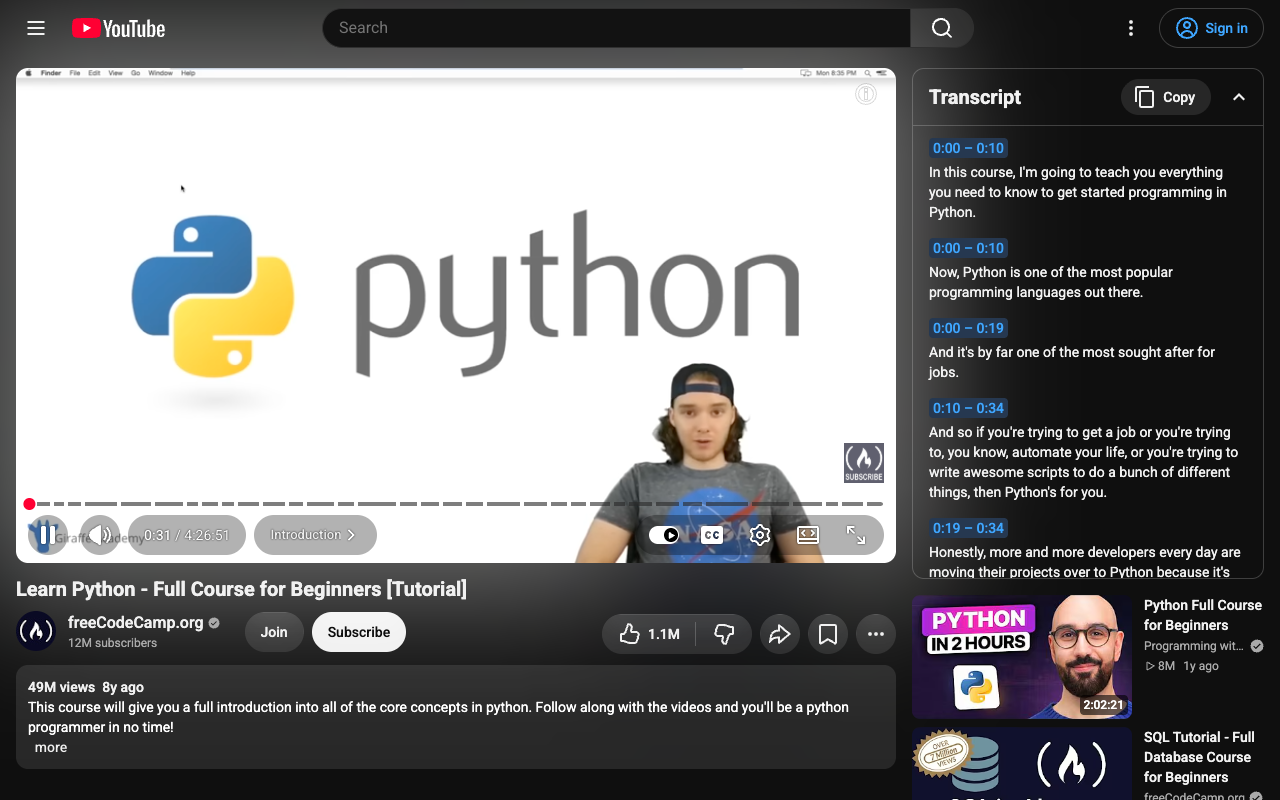
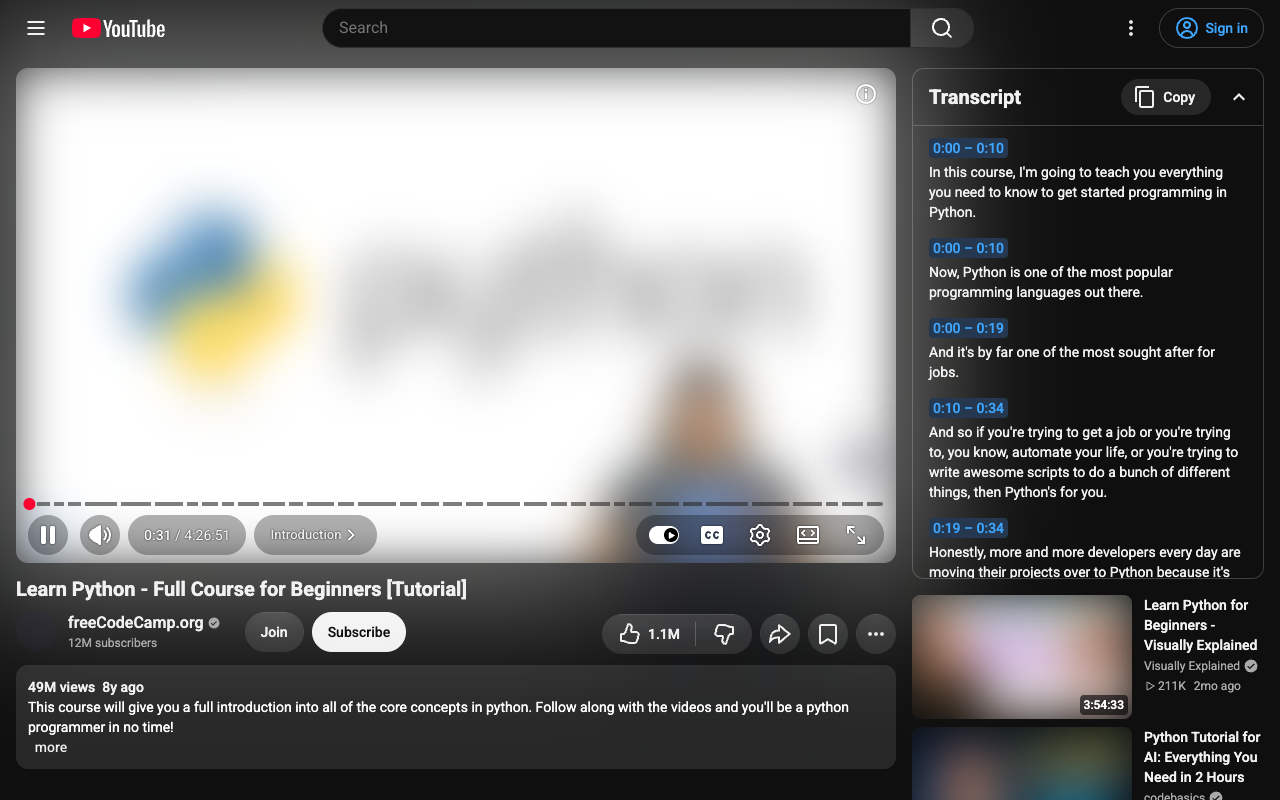
docs: Chrome Web Store compliance pass
Checked against the current CWS program policies, User Data FAQ, Privacy
practices docs, image guidelines and review-process docs.

- PRIVACY.md: per-data table (transcript text, video ID, preferences),
  Limited Use affirmative statement, effective date, contact.
- Listing: "How it works" discloses that YouTube's transcript panel is
  opened in the background (Misleading behaviour 3 / Red Nickel).
- Store screenshots blur the video frame, thumbnails, avatars and channel
  watermark (no third-party content in store assets).
- docs/store/README.md: tab-by-tab dashboard values, data-use reasoning
  with FAQ quotes, review-risk table with violation IDs, open items.

Refs #29

Changed region(s): [[0.0, 0.0625, 0.7188, 0.7188], [0.6875, 0.7188, 1.0, 1.0], [0.0, 0.75, 0.0625, 0.8125]]

diff --git a/docs/store/README.md b/docs/store/README.md
@@ -1,75 +1,118 @@
 # Chrome Web Store submission
 
-This folder prepares the first manual submission of YTTS ([#21](https://github.com/maphel/YTTS/issues/21)).
+This folder prepares the first manual submission of YTTS ([#21](https://github.com/maphel/YTTS/issues/21)),
+checked against the Chrome Web Store program policies, User Data FAQ, Privacy practices docs,
+image guidelines and review-process docs on 9 November 2026 ([#29](https://github.com/maphel/YTTS/issues/29)).
 It does not publish an item or automate uploads. Keep the listing, the privacy policy and the
-dashboard declarations aligned with the code.
+dashboard declarations aligned with the code: contradictions between them are a removal reason
+("If the information listed in your privacy fields contradicts…", Listing requirements 3).
 
-## Files to upload or copy
+## Dashboard, tab by tab
 
-| Dashboard field | Source |
+### Package
+Upload `ytts-<version>.zip` from the [GitHub release](https://github.com/maphel/YTTS/releases)
+(built by `release.yml`; contains only the git-tracked files of `extension/`). Never upload the
+repository or the screenshots.
+
+### Store listing
+| Field | Value |
 | --- | --- |
-| Package | `dist/ytts-<version>.zip` from the GitHub release, or `npm run pack`; must include the single-column fix (#24) |
-| Name | YTTS |
-| Summary | [short-description.txt](short-description.txt), identical to the manifest's English `extDescription` |
-| Detailed description | [long-description.txt](long-description.txt) |
-| Single purpose | [single-purpose.txt](single-purpose.txt) |
-| Permission explanations and remote code | [permissions.md](permissions.md) |
-| Test instructions (500-character field) | [test-instructions.txt](test-instructions.txt) |
-| Additional reviewer context (optional; only if the form offers a notes field, not inside the 500-character test instructions) | [reviewer-notes.txt](reviewer-notes.txt) |
-| Store icon | [`extension/icons/icon128.png`](../../extension/icons/icon128.png), 128 × 128 |
-| Screenshots | [`screenshots/`](screenshots/), 1280 × 800 and 640 × 400, light and dark |
-| Privacy policy | https://github.com/maphel/YTTS/blob/main/PRIVACY.md (current wording after this PR is merged) |
-| Homepage | https://github.com/maphel/YTTS |
+| Description | [long-description.txt](long-description.txt) (plain text) |
+| Category | Tools (alternatives in the current list: Accessibility, Education) |
+| Language | English. The summary comes from the manifest (`__MSG_extDescription__`, 21 locales); localized descriptions per locale are optional and can be added later |
+| Store icon | `extension/icons/icon128.png` (see [Open items](#open-items)) |
+| Screenshots | `screenshots/ytts-wide-light.png`, `screenshots/ytts-wide-dark.png`, `screenshots/ytts-compact-light.png` (1280 × 800 / 640 × 400, full bleed, square corners). At least one is required, up to five allowed |
+| Promo tiles | Optional (440 × 280 small, 1400 × 560 marquee). Without a small tile the item ranks after items that have one; not needed for review |
+| Official URL / Homepage | Homepage URL: https://github.com/maphel/YTTS (Official URL only lists Search-Console-verified sites; leave empty) |
 | Support URL | https://github.com/maphel/YTTS/issues |
+| Mature content | Off |
 
-Suggested listing language: English (the package ships 21 locales, i.e. 20 languages with
-Brazilian and European Portuguese; the dashboard can add
-localized listings later). Suggested category: Tools (verify the current choices; "Education" also
-fits). The summary is 72 characters (limit 132).
+The summary shown in the store is the manifest description: "Read YouTube transcripts next to
+the video and copy them with one click." (72 characters, limit 132). The screenshots are
+generated with `npm run screenshot -- --store`: the real extension on a public video, with the
+video frame, thumbnails, avatars and channel watermark blurred so the store assets show no
+third-party content beyond YouTube's page chrome.
 
-The screenshots are captured from the real extension on youtube.com with `npm run screenshot --
---store` (see `scripts/screenshot.mjs`). They show a public video page, including YouTube's
-interface and third-party thumbnails; replace them if the review objects.
+### Privacy (Privacy practices tab)
+| Field | Value |
+| --- | --- |
+| Single purpose | [single-purpose.txt](single-purpose.txt) |
+| Permission justification: `storage` | First section of [permissions.md](permissions.md) |
+| Host permission justification (content script on `https://www.youtube.com/*`) | Second section of [permissions.md](permissions.md) |
+| Remote code | "No, I am not using remote code" |
+| Data usage: collected categories | **Website content** only (see below) |
+| Data usage: certifications | Tick all three after reading them; they match [PRIVACY.md](../../PRIVACY.md) (no sale/transfer to third parties, no use unrelated to the single purpose, no creditworthiness/lending use) |
+| Privacy policy URL | https://github.com/maphel/YTTS/blob/main/PRIVACY.md (open it signed out first) |
 
-## Recommended data-use declarations
+Why these categories: "handle" includes local processing ("Extensions are required to disclose
+how they handle user data, even when data is processed or stored locally", User Data FAQ 3), and
+"Clipping or scraping content from a website that the user visits" is listed as handling (FAQ 2).
+YTTS reads the transcript text of the page → **Website content**. It reads only the current
+video's ID from the URL to notice video changes, keeps no list of pages, titles or visit times
+and stores nothing → not **Web history**. It observes no clicks, scrolling or keystrokes outside
+its own card → not **User activity**. Nothing else (personally identifiable, health, financial,
+authentication, personal communications, location) is accessed. The dashboard's own definitions
+are only visible signed in: compare them before ticking, and if a definition reads broader than
+described here, tick it and keep PRIVACY.md consistent. Over-disclosure is harmless, under-
+disclosure is a rejection reason (Purple Lithium / Purple Nickel).
 
-YTTS reads, locally, the transcript text that youtube.com renders and the current video ID from
-the URL. Nothing is transmitted to the developer or third parties, and nothing but three display
-preferences is stored.
+The Limited Use affirmative statement required on the homepage or one click away is in
+PRIVACY.md, linked from README.md.
 
-- **Website content:** recommended. The extension reads page content (the transcript) to provide
-  its single purpose, even though the processing stays local.
-- **Web history:** recommended not to select. Only the current tab's video ID is read to detect
-  navigation; YTTS keeps no list of visited pages and stores no video IDs.
-- **All other categories** (personally identifiable, health, financial, authentication, personal
-  communications, location, user activity): not accessed.
+### Test instructions
+[test-instructions.txt](test-instructions.txt) (417 characters, field limit 500). It names a
+short video whose transcript loads reliably.
 
-This mapping is the project's reading of the dashboard definitions (see the User data FAQ below on
-local processing). The maintainer confirms it against the current form before submitting.
-Review the three data-use certifications separately against the privacy policy.
+### Distribution
+Free, all regions. Visibility: Public (Unlisted goes through the same review). Leave "publish
+automatically after review" on, or defer it to check the approved item first (a staged item must
+be published within 30 days).
+
+## Review-risk check
+
+| Risk (policy / violation ID) | Status |
+| --- | --- |
+| Impersonation, trademark (Impersonation 1 and 5; Red Nickel/Red Silicon) | Listing and PRIVACY.md say "not affiliated with YouTube or Google". Name "YTTS" is descriptive. **Icon: open item.** |
+| Misleading or unexpected behaviour (Misleading 3; Red Nickel "actions not mentioned in the metadata") | The description's "How it works" discloses that YouTube's transcript panel is opened in the background and closed again |
+| Unauthorized download of copyrighted content (Prohibited products) | No media download; only the transcript YouTube itself shows, copied on a user click. Avoid "download", "save video" or "scrape" in any listing text |
+| Keyword spam (Listing 4; Yellow Argon) | No keyword lists; languages mentioned once as a count |
+| Missing or insufficient metadata (Yellow Zinc) | Description, icon, screenshots, category present |
+| Functionality not working (Yellow Magnesium) | Test instructions point to a video that works; see open items for older-panel videos |
+| Excessive permissions (Purple Potassium) | `storage` + one site; no `tabs`, `scripting`, `host_permissions` or broad patterns |
+| User data disclosure (Purple Lithium, Purple Nickel) | Privacy policy with Limited Use statement; Website content declared |
+| Remote code, obfuscation (Blue Argon, Red Titanium) | None; plain, unminified source |
+| Slow review | Single-site content script and no sensitive permissions keep it out of the broad-host-permission path; new developers and new items get closer review regardless ("a few days, up to a few weeks") |
+
+## Open items
+
+- **Store icon.** The art is 112 × 112 with 8 px padding; the guideline is 96 × 96 art with 16 px
+  transparent padding. Its red rounded square with a white play triangle resembles YouTube's
+  logo (#3), the most likely impersonation/trademark finding. Maintainer decision.
+- **Older transcript panel.** In automated Chromium, videos whose transcript YouTube loads via
+  `get_transcript` were refused (HTTP 400, YouTube's own panel too). Confirm in a normal browser
+  that YTTS loads such a video (e.g. `arj7oStGLkU`) before submitting.
 
 ## Manual checklist
 
-- [ ] Sign in to the Chrome Web Store Developer Dashboard with the intended publisher account and
-  complete registration, the developer agreement and the trader/non-trader declaration.
-- [ ] Download `ytts-<version>.zip` from the GitHub release (or run `npm run pack`), inspect it and
-  check the version.
-- [ ] Create a new item and upload that ZIP; never the repository or the screenshots.
-- [ ] Copy the listing texts, choose language and category, upload the icon and screenshots.
-- [ ] Enter the privacy policy URL, single purpose, permission explanations and test instructions;
-  open the policy URL without signing in first.
-- [ ] Select the data-use categories and certifications after reviewing them (see above).
-- [ ] Declare no remote code.
-- [ ] Choose visibility (Unlisted for a first test, or Public) and review all validation messages.
-- [ ] Submit for review. Record the item ID, store URL and review outcome in #21, and add the store
-  link to README.md afterwards.
+- [ ] Developer Dashboard: publisher registration, developer agreement, trader/non-trader
+  declaration, verified contact email.
+- [ ] Package tab: upload the release ZIP; check name and version 0.1.0.
+- [ ] Store listing tab as above; upload icon and screenshots.
+- [ ] Privacy tab as above; open the privacy URL signed out.
+- [ ] Test instructions and distribution as above.
+- [ ] Resolve all dashboard validation messages, then "Submit for review".
+- [ ] Record item ID, store URL and the outcome in #21; add the store link to README.md.
 
-Do not add upload credentials to the repository. Automated uploads are a later step, if ever.
+Do not add upload credentials to the repository.
 
 ## Policy references
 
-- [Prepare images](https://developer.chrome.com/docs/webstore/images): icon and screenshot sizes.
-- [Create a great listing](https://developer.chrome.com/docs/webstore/best-listing).
+- [Program policies](https://developer.chrome.com/docs/webstore/program-policies/policies)
+  (single page: impersonation, listing requirements, Limited Use, permissions, MV3).
+- [User data FAQ](https://developer.chrome.com/docs/webstore/program-policies/user-data-faq).
+- [Privacy practices tab](https://developer.chrome.com/docs/webstore/cws-dashboard-privacy).
+- [Images](https://developer.chrome.com/docs/webstore/images) ·
+  [Store listing tab](https://developer.chrome.com/docs/webstore/cws-dashboard-listing) ·
+  [Review process](https://developer.chrome.com/docs/webstore/review-process) ·
+  [Violation reference IDs](https://developer.chrome.com/docs/webstore/troubleshooting).
 - [Trader disclosure](https://developer.chrome.com/docs/webstore/program-policies/trader-disclosure).
-- [User data FAQ](https://developer.chrome.com/docs/webstore/program-policies/user-data-faq):
-  local processing and disclosure.

diff --git a/PRIVACY.md b/PRIVACY.md
@@ -1,36 +1,57 @@
-# Privacy
+# Privacy policy
 
-YTTS has no backend, analytics, advertising, or telemetry. The extension does not
-send transcripts or browsing history to its author or an external service.
+Effective: 9 November 2026 · Applies to the YTTS browser extension, version 0.1.0 and later.
 
-## Transcript data
+YTTS has no backend, analytics, advertising, or telemetry. It does not send any data to its
+developer or to third parties, and it does not sell or transfer data.
 
-The content script runs on `https://www.youtube.com/*`. On a watch page, it reads
-the current video's ID from the URL and reads the transcript rendered by
-YouTube's native transcript panel. Transcript text is kept in the page's memory
-to display the card and handle copying. It is not written to extension storage.
+## What YTTS handles, and why
 
-Clicking **Copy** writes the transcript to your system clipboard. YTTS does
-not read the existing clipboard contents. Your operating system or other
-software may manage clipboard history separately.
+All processing happens locally in your browser, only on `https://www.youtube.com/*`, and only to
+show the transcript card and copy the transcript.
 
-Opening YouTube's native panel can cause YouTube itself to load transcript data.
-Your normal use of YouTube remains subject to YouTube's own privacy practices.
+| Data | What YTTS does with it | Stored? |
+| --- | --- | --- |
+| Transcript text of the video you are watching (website content) | On a watch page, YTTS opens YouTube's own transcript panel in the background, reads the transcript it renders, closes the panel again if YTTS opened it, and shows the text in the card. | Kept in the page's memory while the tab is open; never written to storage. |
+| The current video's ID, read from the page URL | Used only to detect that you switched videos, so the card shows the right transcript. | Kept in memory for the current tab; not stored, not collected as a history. |
+| Three display preferences | `expandedByDefault` (card starts expanded), `copyTimestamps` (copied text includes timestamps), `view` (`lines`, `sentences`, or `text`). | Saved with `chrome.storage.sync`. |
 
-## Settings
+YTTS does not read other pages, your account, comments, cookies, form input, keystrokes, or your
+existing clipboard contents.
 
-The `storage` permission is used to save three preferences:
+## Clipboard
 
-- `expandedByDefault`: whether the transcript card starts expanded.
-- `copyTimestamps`: whether copied text includes timestamps.
-- `view`: the selected display mode (`lines`, `sentences`, or `text`).
+Only when you click **Copy** does YTTS write the transcript to your system clipboard. Your
+operating system or other software may keep a clipboard history; YTTS has no control over that.
 
-These values use `chrome.storage.sync`. If extension-settings synchronization is
-enabled in your browser, the browser may synchronize them through your browser
-account. YTTS does not store transcript text, video IDs, or watch history there.
+## Storage and sync
+
+The three preferences use `chrome.storage.sync`. If you have turned on sync for extension
+settings in your browser, the browser may synchronize them through your browser account. YTTS
+stores no transcript text, video IDs, or watch history.
+
+## YouTube
+
+Opening YouTube's transcript panel makes YouTube load the transcript, as it would if you opened
+the panel yourself. Your use of YouTube remains subject to YouTube's own terms and privacy
+practices. YTTS is an independent project and is not affiliated with YouTube or Google.
+
+## Chrome Web Store User Data Policy
+
+The use of information received by YTTS adheres to the
+[Chrome Web Store User Data Policy](https://developer.chrome.com/docs/webstore/program-policies/policies),
+including the Limited Use requirements. In particular, YTTS uses data only to provide its single
+purpose (showing and copying the transcript of the current YouTube video); does not transfer data
+to third parties; does not use or transfer data for personalized advertising, for determining
+creditworthiness, or for lending; and does not allow humans to read the data.
 
 ## Removing YTTS
 
-You can remove the extension from your browser's extensions page. Removing it
-does not clear text you previously copied to the system clipboard or any
-clipboard history managed by other software.
+Remove the extension on your browser's extensions page; all processing stops. Text you copied
+earlier stays in your clipboard or clipboard history until it is replaced there.
+
+## Changes and contact
+
+Changes to this policy are recorded in this file's history and in [CHANGELOG.md](CHANGELOG.md).
+Questions: open an issue at https://github.com/maphel/YTTS/issues, or for security matters see
+[SECURITY.md](SECURITY.md).

diff --git a/CHANGELOG.md b/CHANGELOG.md
@@ -7,6 +7,9 @@ All notable changes to YTTS are listed here. The format is based on
 
 <!-- Entries go under ### Added / ### Changed / ### Fixed / ### Removed; add only the subsections you need. -->
 
+### Changed
+- Privacy policy: lists each kind of data handled, adds the Chrome Web Store Limited Use statement, an effective date and contact.
+
 ## 0.1.0 — 2026-11-09
 
 ### Added
